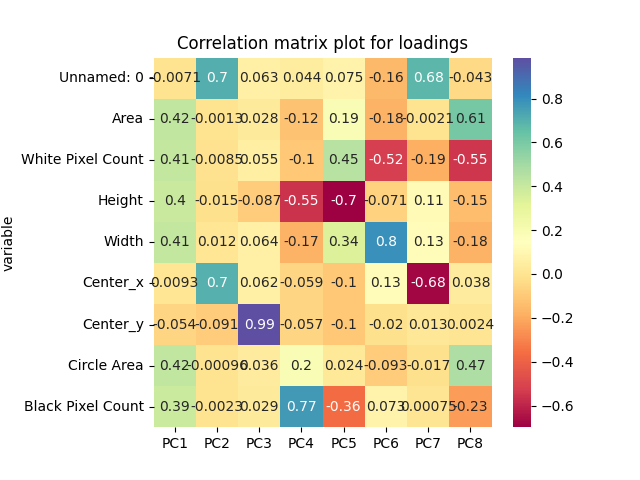
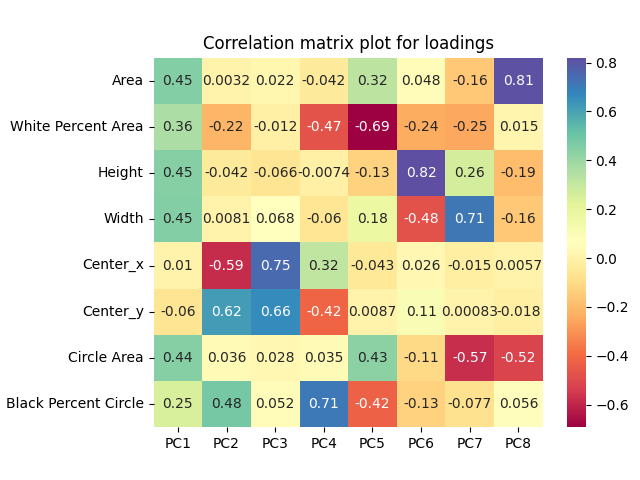
Updating based on %

diff --git a/src/p5.py b/src/p5.py
@@ -8,9 +8,10 @@ import seaborn as sns
 from sklearn.preprocessing import StandardScaler
 
 df = pd.read_csv('data/example.csv')
+df.drop(df.columns[[0]], axis=1, inplace=True)
 
 # Conduct principal components analysis
-X = df
+X = df 
 standardized_X = StandardScaler().fit_transform(X)
 pca = PCA(n_components=8)
 pca.fit(standardized_X)
@@ -33,6 +34,9 @@ plt.clf()
 # Credit to Renesh Bedre for the fantastic guide linked below that provided a map for this section
 # https://www.reneshbedre.com/blog/principal-component-analysis.html
 loadings = pca.components_
+for loading in loadings:
+    for load in loading:
+        load = round(load, 2)
 count_pc = pca.n_features_
 pc_list = ['PC' + str(i) for i in x_array]
 loadings_df = pd.DataFrame.from_dict(dict(zip(pc_list, loadings)))
@@ -41,46 +45,6 @@ loadings_df = loadings_df.set_index('variable')
 ax = sns.heatmap(loadings_df, annot=True, cmap='Spectral')
 fig = ax.get_figure()
 fig.subplots_adjust(left=0.24)
+fig.subplots_adjust(right=1)
 plt.title('Correlation matrix plot for loadings')
 plt.savefig('figs/Correlation_Matrix.png')
-
-'''clf = PCA(4)
-X_trans = clf.fit_transform(standardized_X)
-
-pca2 = PCA(2)
-X_trans2 = pca2.fit_transform(standardized_X)
-print(standardized_X.shape)
-print(X_trans2.shape)'''
-# Plot principal components
-'''
-# Use the draw vector function for our plot
-def draw_vector(v0, v1, ax=None):
-    ax = ax or plt.gca()
-    arrowprops=dict(arrowstyle='->',
-                    linewidth=2,
-                    shrinkA=0, shrinkB=0)
-    ax.annotate('', v1, v0, arrowprops=arrowprops)
-
-fig, ax = plt.subplots(1, 2, figsize=(16, 6)) # Change code for figsize due to deprecation warning
-fig.subplots_adjust(left=0.0625, right=0.95, wspace=0.1)
-
-ax[0].scatter(X['Area'], X['% White'], alpha=0.2)
-for length in pca.explained_variance_:
-    print(length)
-for vector in pca.components_:
-    print(vector)
-print(zip(pca.explained_variance_, pca.components_))
-for length, vector in zip(pca.explained_variance_, pca.components_):
-    v = vector * 3 * np.sqrt(length)
-    draw_vector(pca.mean_, pca.mean_ + v, ax=ax[0])
-#ax[0].axis('equal')
-ax[0].set(xlabel='Area', ylabel='Percent of White Pixels', title='input')
-
-X_pca = pca.transform(X)
-ax[1].scatter(X_pca[:, 0], X_pca[:, 1], alpha=0.2)
-draw_vector([0, 0], [0, 3], ax=ax[1])
-draw_vector([0, 0], [3, 0], ax=ax[1])
-ax[1].axis('equal')
-ax[1].set(xlabel='component 1', ylabel='component 2',
-          title='principal components',
-          xlim=(-5, 5), ylim=(-3, 3.1))'''

diff --git a/src/p4.py b/src/p4.py
@@ -13,9 +13,7 @@ fig, ax = plt.subplots(1, 2, figsize=(16, 6)) # Change code for figsize due to d
 fig.subplots_adjust(left=0.0625, right=0.95, wspace=0.1)
 
 # Show that the brightness of a cell increases with the size
-X['% White'] = round(X['White Pixel Count'] / X['Area'] * 100, 2)
-
-ax[0].scatter(X['Area'], X['% White'], alpha=0.2)
+ax[0].scatter(X['Area'], X['White Percent Area'], alpha=0.2)
 ax[0].set_title('Cell Area by Percentage White')
 ax[0].set_xlabel('Total Pixel Count')
 ax[0].set_ylabel('Percentage of White Pixels')
@@ -27,7 +25,7 @@ def log_function(x):
 X['log_Area'] = X['Area'].transform(log_function)
 
 # Show the logorithmic relationship
-ax[1].scatter(X['log_Area'], X['% White'], alpha=0.2)
+ax[1].scatter(X['log_Area'], X['White Percent Area'], alpha=0.2)
 ax[1].set_title('log(Cell Area) by Percentage White')
 ax[1].set_xlabel('log(Total Pixel Count)')
 ax[1].set_ylabel('Percentage of White Pixels')

diff --git a/src/p3_5.py b/src/p3_5.py
@@ -4,4 +4,4 @@ import pandas as pd
 
 df = pd.DataFrame(p3.cells, columns=['Area', 'White Percent Area', 'Height', 'Width', 'Center_x', 'Center_y', 'Circle Area', 'Black Percent Circle'])
 
-df.to_csv('../data/example.csv')
+df.to_csv('data/example.csv')
